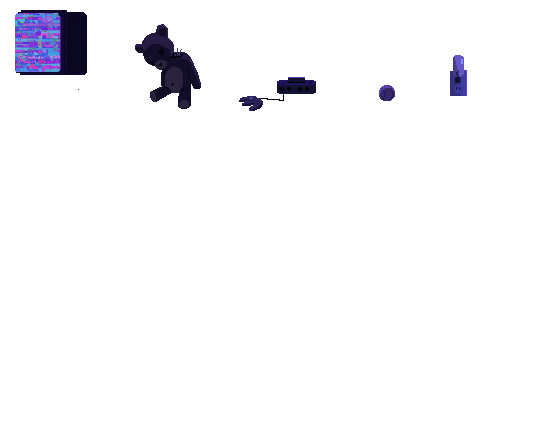
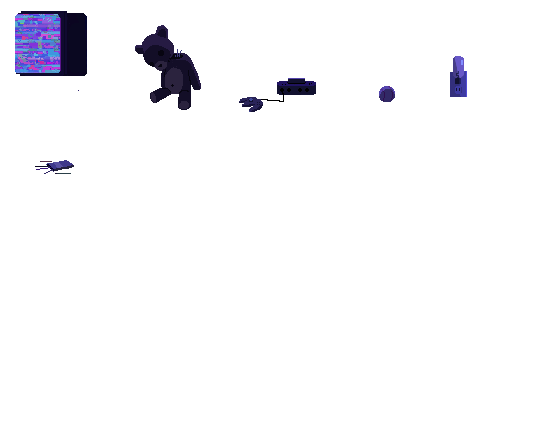
Added new colored pencils asset

diff --git a/Unity_Project/Assets/Scripts/ItemController.cs b/Unity_Project/Assets/Scripts/ItemController.cs
@@ -1,15 +1,41 @@
 using UnityEngine;
+using System;
 using System.Collections;
 
 public class ItemController : MonoBehaviour {
 
 	// Use this for initialization
 	void Start () {
-	
+		assignItemMessages();
 	}
 	
 	// Update is called once per frame
 	void Update () {
 	
+	}
+
+	// assigns the messages to the interactable items in the scene
+	private void assignItemMessages () {
+
+		string [][] itemMessagesByItem = CSVReader.Instance.ParseCSV();
+
+		if (itemMessagesByItem == null) {
+			Debug.LogWarning("The CSV TextAsset is missing from the CSVReader");
+			return;
+		}
+
+		for (int i = 0; i <itemMessagesByItem.Length; i++) {
+
+			string item = itemMessagesByItem[i][0];
+			string [] messages = new string[itemMessagesByItem[i].Length-1];
+
+			Array.Copy(itemMessagesByItem[i], 1, messages, 0, messages.Length);
+
+			try {
+				Item.AllItems[item].SetMessages(messages);
+          	} catch {
+				Debug.LogWarning(item + " does not exist in the scene");
+			}
+		}
 	}
 }

diff --git a/Unity_Project/Assets/Scripts/CSVReader.cs b/Unity_Project/Assets/Scripts/CSVReader.cs
@@ -16,6 +16,10 @@ public class CSVReader : MonoBehaviour {
 
 	// Returns a 2d array of the CSV
 	public string [][] ParseCSV (TextAsset CSV) {
+		if (CSV == null) {
+			return null;
+		}
+
 		string[] CSVByLine = CSV.text.Split('\n');
 		string[][] CSVByCell = new string[CSVByLine.Length][];
 
@@ -24,5 +28,9 @@ public class CSVReader : MonoBehaviour {
 		}
 
 		return CSVByCell;
+	}
+
+	public string [][] ParseCSV () {
+		return ParseCSV(CSV);
 	}
 }

diff --git a/Unity_Project/Assets/Scripts/MessageController.cs b/Unity_Project/Assets/Scripts/MessageController.cs
@@ -1,0 +1,17 @@
+using UnityEngine;
+using System.Collections;
+
+public class MessageController : MonoBehaviour {
+	public GameObject TopOfScreenMessage;
+	public enum Screen {Top, Bottom, Left, Right, Center};
+
+	// Use this for initialization
+	void Start () {
+	
+	}
+	
+	// Update is called once per frame
+	void Update () {
+	
+	}
+}
